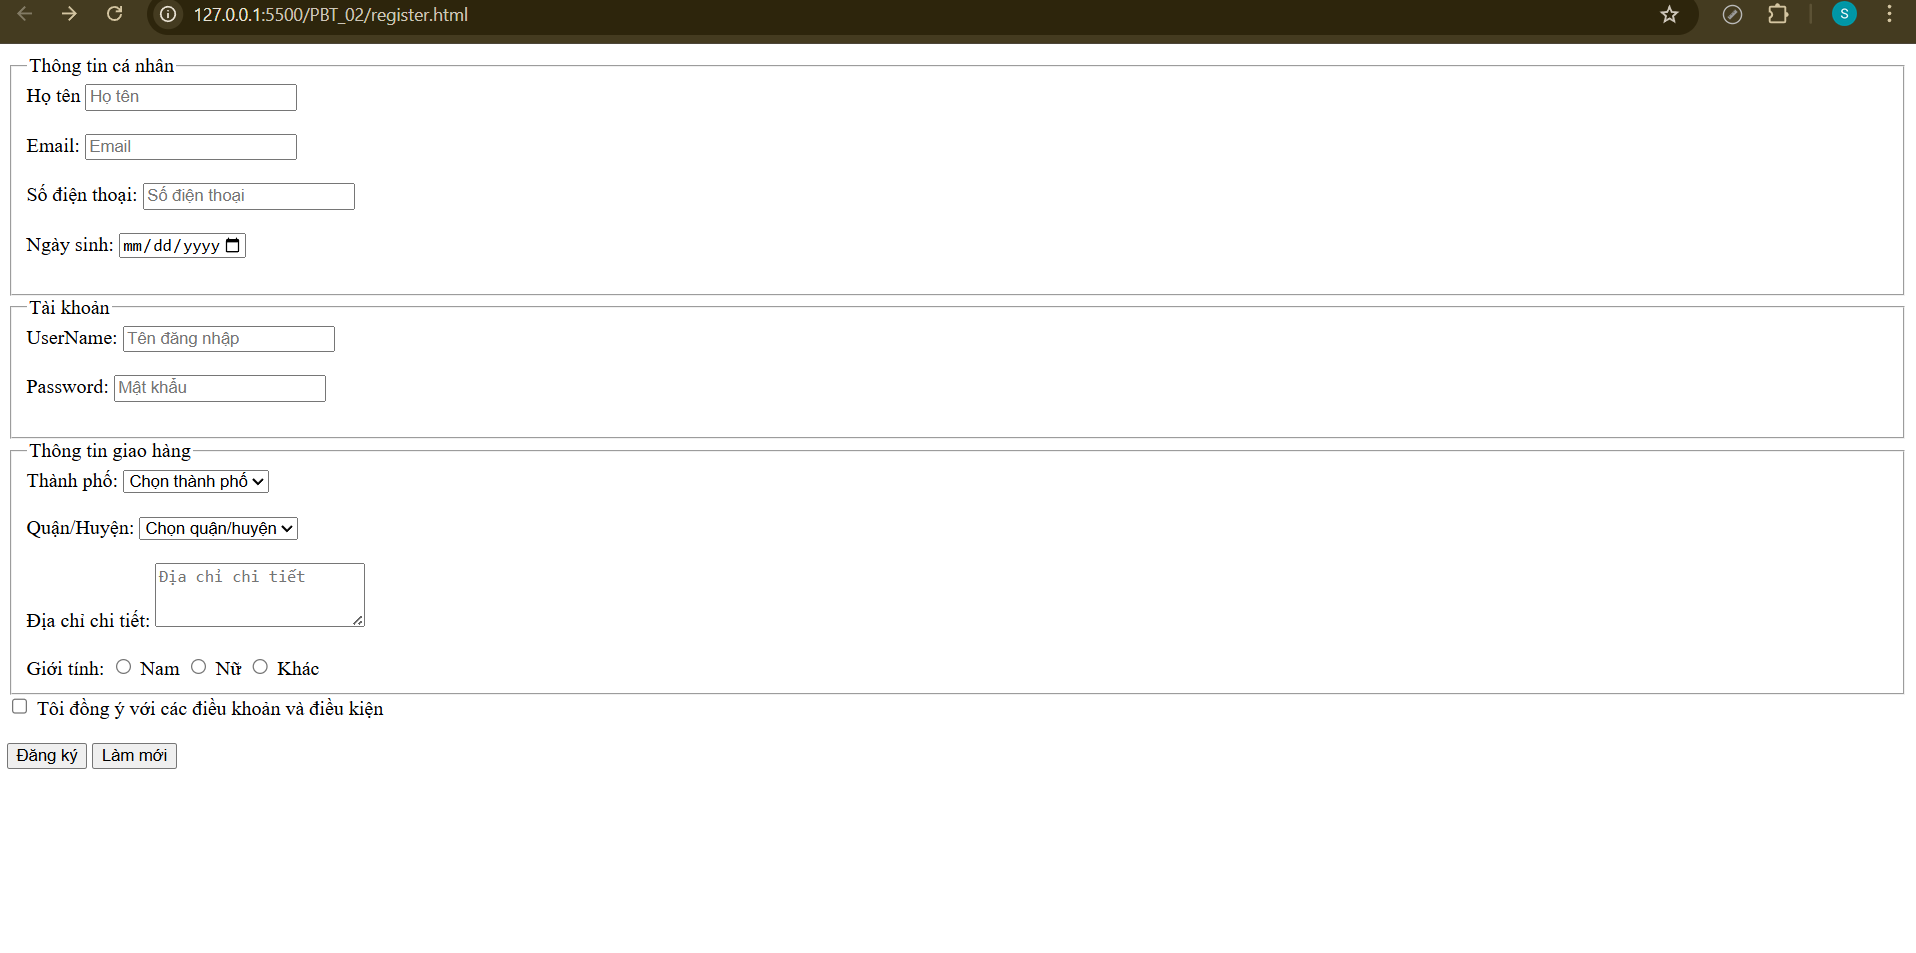
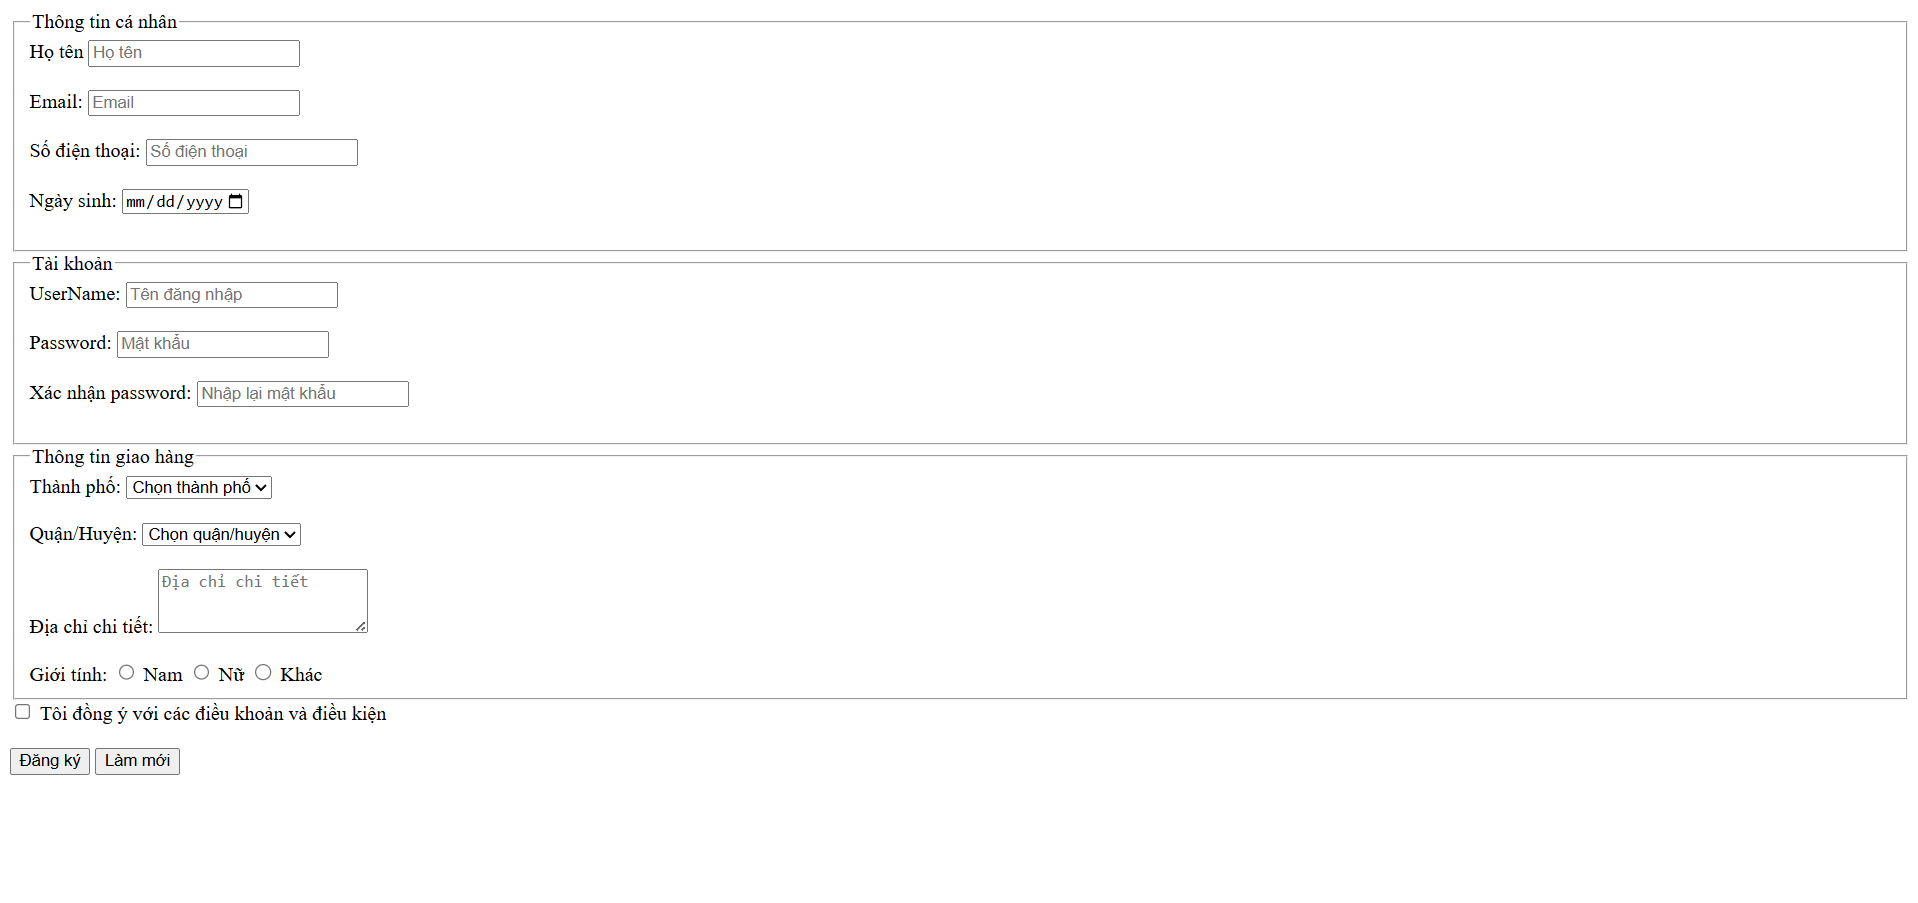
PBT_02: Sửa lại code + ketQua Bài B1

Changed region(s): [[0.0, 0.0, 1.0, 0.8062], [0.0, 0.8372, 0.0924, 0.8682]]

diff --git a/PBT_02/register.html b/PBT_02/register.html
@@ -29,6 +29,9 @@
             <label for="password">Password:</label>
             <input type="password" id="password" name="password" placeholder="Mật khẩu"
                 pattern="(?=.*[A-Z])(?=.*\d).{8,}$" required><br><br>
+            <label for="confirm_password">Xác nhận password:</label>
+            <input type="password" id="confirm_password" name="confirm_password" placeholder="Nhập lại mật khẩu"
+                pattern="(?=.*[A-Z])(?=.*\d).{8,}$" required><br><br>
         </fieldset>
 
         <fieldset>

diff --git a/PBT_02/answer.md b/PBT_02/answer.md
@@ -106,6 +106,16 @@ CÂU A5: So sánh <img> và <figure>
 - Dùng <img> khi hình ảnh là một phần không thể tách rời của nội dung văn bản hoặc chỉ đóng vai trò minh họa bổ trợ ngay tại vị trí đó. Nếu xóa ảnh đi, đoạn văn có thể trở nên khó hiểu hoặc thiếu sót.
 - Dùng <figure> khi hình ảnh là một khối nội dung tự thân, có chú thích rõ ràng. <figure> có thể được di chuyển đến vị trí khác trong bài viết
 
+BÀI B1:
+
+- HTML5 không thể tự động validate "Confirm Password" vì
+
+- Tính độc lập của dữ liệu: HTML5 Validation hoạt động dựa trên các quy tắc tĩnh (static rules) áp dụng cho từng phần tử riêng biệt (như required, pattern, minlength). Nó kiểm tra xem giá trị của ô đó có đúng định dạng không, chứ không quan tâm đến giá trị của các ô khác xung quanh.
+
+- Thiếu toán tử so sánh: Để kiểm tra "Xác nhận mật khẩu", trình duyệt cần thực hiện một phép tính logic so sánh: Giá trị ô A == Giá trị ô B. HTML5 thuần túy không cung cấp thuộc tính nào (ví dụ như match="id_cua_o_khac") để thực hiện việc này.
+
+- Cần Logic động: Việc kiểm tra hai trường dữ liệu có khớp nhau hay không là một hành động mang tính chất logic động (Dynamic logic). Do đó, chúng ta bắt buộc phải dùng JavaScript để so sánh giá trị của hai ô này trước khi cho phép gửi form đi.
+
 CÂU C1:
 
 - Lỗi 1: Dòng 2 — Input "Tên" không có <label for="...">, vi phạm accessibility.
